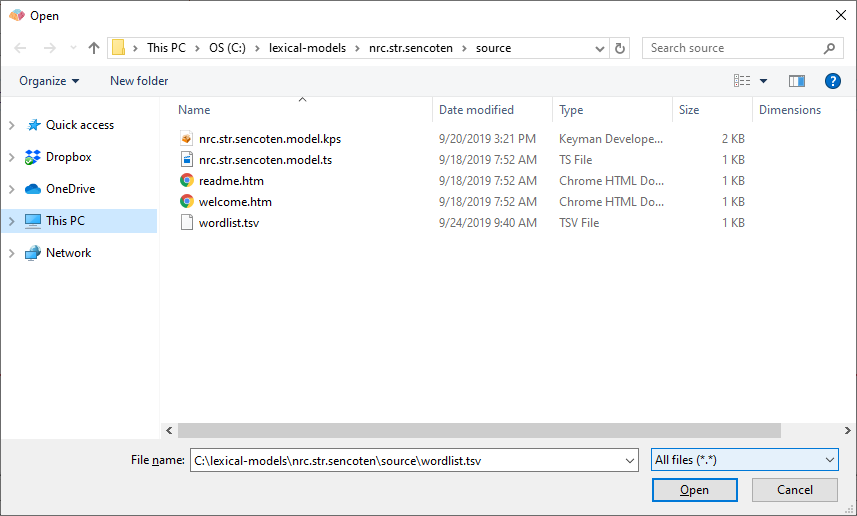
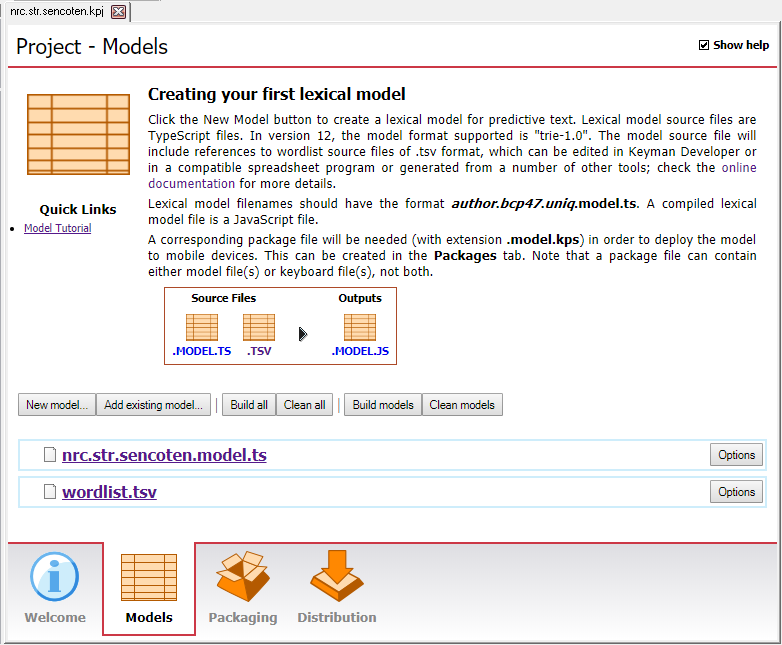
Misc updates
* Update step on opening TSV to use Models tab
* Update kmp info for lexical models content

Changed region(s): [[0.0, 0.0, 1.0, 1.0], [0.0, 0.5891, 0.6445, 0.6512], [0.7366, 0.9302, 0.7673, 0.9612]]

diff --git a/developer/12.0/reference/file-types/kmp.php b/developer/12.0/reference/file-types/kmp.php
@@ -10,20 +10,26 @@
 
 <dl>
   <dt>Used by:</dt>
-  <dd><span class="application">Keyman Desktop</span> and custom Keyman Engine products.</dd>
+  <dd>All Keyman and custom Keyman Engine products can use keyboard packages.</dd>
+  <dd>Keyman for Android and Keyman for iPhone and iPad can use lexical model packages.</dd>
 
   <dt>Description:</dt>
-  <dd>A .KMP file is a Keyman Package file.</dd>
+  <dd>A .KMP file is a Keyman Package file for distributing keyboards or lexical models.</dd>
 
   <dt>Details:</dt>
   <dd>A .KMP file is compiled from a Keyman Package source file (<a href='kps'>.KPS</a>) using the Package Editor in <span class=
-    "application">Keyman Developer</span>. Normal contents of a Keyman Package are one or more keyboards with fonts, documentation, and On
+    "application">Keyman Developer</span>. Normal contents of a Keyman keyboard Package are one or more keyboards with fonts, documentation, and On
     Screen Keyboard (<a href='kvk'>.KVK</a>) files. Keyman Developer will also include a <a href='metadata'>metadata</a>
-    file in the package.</dd>
+    file in the package. Lexical model packages contain one lexical model instead of keyboards.</dd>
 
   <dt>Distributed with keyboard:</dt>
-  <dd>A Keyman Package file (.KMP) can include keyboard files (<a href='kmx'>.KMX</a>/.JS), fonts, documentation, and On Screen
+  <dd>A Keyman keyboard Package file (.KMP) can include keyboard files (<a href='kmx'>.KMX</a>/.JS), fonts, documentation, and On Screen
     Keyboard (<a href='kvk'>.KVK</a>) files. Do not include source files (<a href='kmn'>.KMN</a>/.KVKS) in the Package.
     The Keyman Package is normally distributed instead of the plain keyboard file (<a href='kmx'>.KMX</a>) in order to
     include the extra files.</dd>
+
+  <dt>Distributed with lexical model:</dt>
+  <dd>A Keyman lexical model Package file (.KMP) includes one lexical model file (<a href='model-js'>.MODEL.JS)</a>,
+    and documentation files. Do not include lexical model source files (<a href='model-ts'>.MODEL.TS</a> or
+    <a href='tsv'>.TSV</a>) in the Package.</dd>
 </dl>

diff --git a/developer/12.0/guides/lexical-models/tutorial/step-3.php b/developer/12.0/guides/lexical-models/tutorial/step-3.php
@@ -56,7 +56,7 @@ Here is my list of words, with the count of how many times I’ve seen the word:
 <h2>Editing the .TSV in Keyman Developer</h2>
 <p>If you plan to only edit a few entries for your wordlist, you can use the TSV editor in Keyman Developer. The project
 template created a wordlist named <strong>wordlist.tsv</strong> that we will now edit.</p>
-<p>In Keyman Developer from the File menu select Open. Set the filetypes to "All Files (*.*)". Browse to your project source directory and open wordlist.tsv.</p>
+<p>In Keyman Developer project view, select the Models tab and click on wordlist.tsv.</p>
 
 <figure>
   <img src="<?= cdn('img/developer/120/lm/developer-open-tsv.png') ?>"
